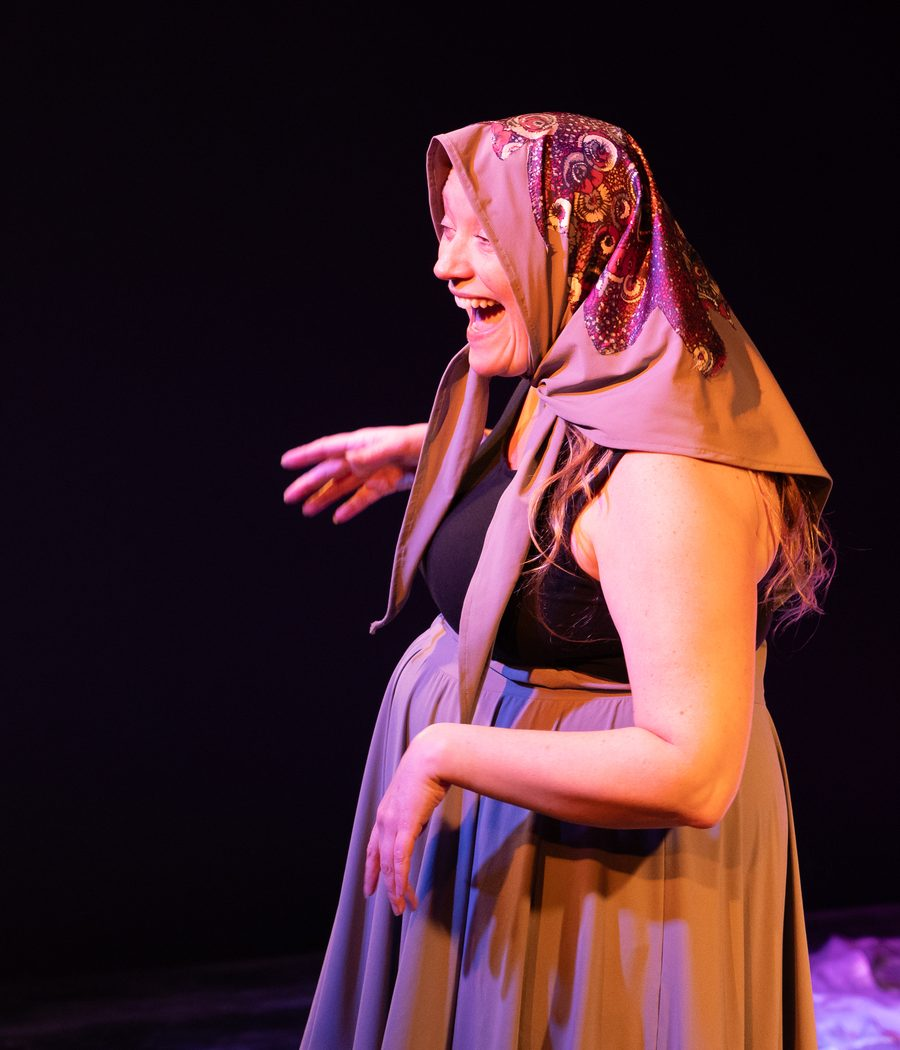
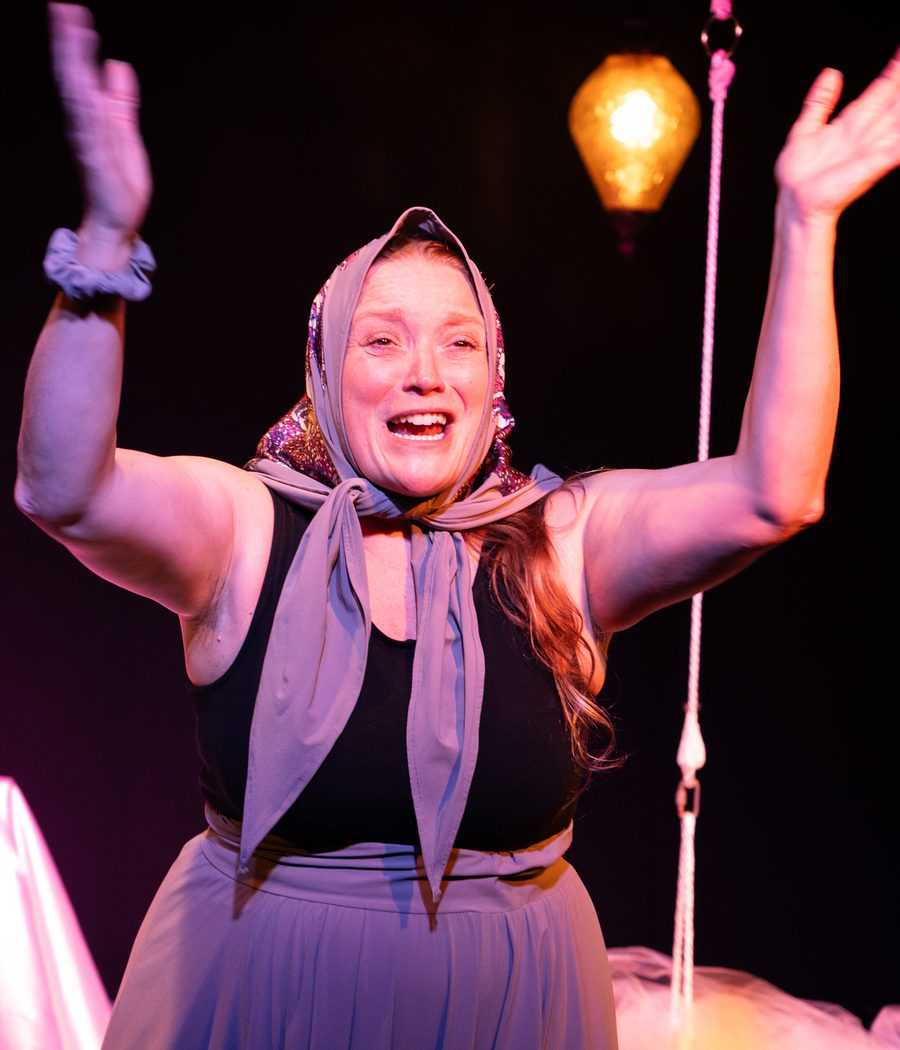
Add files via upload

diff --git a/index.html b/index.html
@@ -484,19 +484,19 @@
   })();
 
   var CAST = [
-    {name:"Stella", role:"Great-aunt, narrator", img:"cast-stella.jpg",
+    {name:"Stella", role:"Great-aunt, narrator", img:"cast-stella.jpg", credit:"Greg Parkinson",
      desc:"Jovial and babushka-wearing, Stella carries the story. She has seen her share of tragedy but stays delighted by humanity, and chortles remembering how she snuck food from the racetrack buffet to help stretch the family's budget."},
-    {name:"Tony", role:"Family friend",
+    {name:"Tony", role:"Family friend", img:"cast-tony.jpg", credit:"Greg Parkinson",
      desc:"Keeper of the famous lasagna. In the show's opening vision of the afterlife, the line to the Pearly Gates never moves, and that is fine, because the people you love are there and occasionally Tony cooks."},
     {name:"Jim", role:"Her father",
      desc:"Hurt in a freak accident in the ocean. Mura portrays him as moving light behind her suggests shifting clouds and the foam of the water, an image the show returns to again and again."},
-    {name:"The Aunts", role:"Family",
-     desc:"Part of the biological and chosen family who closed ranks around the Muras. Mura moves between them by voice and body alone, with no costume change to lean on."},
-    {name:"The Neighbors", role:"Community",
-     desc:"The New Jersey neighborhood that showed up. They are the reason the show exists: it is built as a thank-you to the people who quietly carried a family through the worst of it."},
-    {name:"The Priest", role:"Community",
+    {name:"Helen", role:"Family", img:"cast-helen.jpg", credit:"Greg Parkinson",
+     desc:"Part of the biological and chosen family who closed ranks around the Muras. Mura becomes her by voice and body alone, with no costume change to lean on."},
+    {name:"The Best Friends", role:"Friends", img:"cast-best-friends.jpg", credit:"Greg Parkinson",
+     desc:"The friends who showed up. They are the reason the show exists: it is built as a thank-you to the people who quietly carried a family through the worst of it."},
+    {name:"The Priest", role:"Community", img:"cast-priest.jpg", credit:"Greg Parkinson",
      desc:"One more voice in a town's worth of them, drawn with the same generosity the show extends to everyone in it."},
-    {name:"Kate", role:"Herself, briefly",
+    {name:"Kate", role:"Herself, briefly", img:"cast-kate.jpg", credit:"Greg Parkinson",
      desc:"She appears as herself only for a moment. The choice keeps the piece from becoming a monologue about her, and keeps it about the people who showed up."}
   ];
 
@@ -508,7 +508,7 @@
   function render(i){
     var c = CAST[i];
     var photo = c.img ?
-      '<div><img class="cast-photo" src="' + c.img + '" alt="Kate Mura as ' + c.name + '."><div class="cast-photo-cap">Photo: Greg Parkinson</div></div>' : '';
+      '<div><img class="cast-photo" src="' + c.img + '" alt="Kate Mura as ' + c.name + '.">' + (c.credit ? '<div class="cast-photo-cap">Photo: ' + c.credit + '</div>' : '') + '</div>' : '';
     stage.innerHTML =
       '<div class="cast-fade cast-card' + (c.img ? ' has-photo' : '') + '">' + photo +
       '<div>' +

diff --git a/archive.html b/archive.html
@@ -461,7 +461,7 @@
     <div class="bio">
       <div class="bio-photo reveal">
         <img src="images/kate-mura-headshot.jpg" alt="Portrait of Kate Mura, wide-eyed and mid-expression.">
-        <div class="cap">Photo Credit: Gary Norman</div>
+        <div class="cap">Photo: Greg Parkinson · Graphic Design: Alec Lugo</div>
       </div>
       <div class="bio-copy reveal">
         <div class="eyebrow">The Artist</div>
